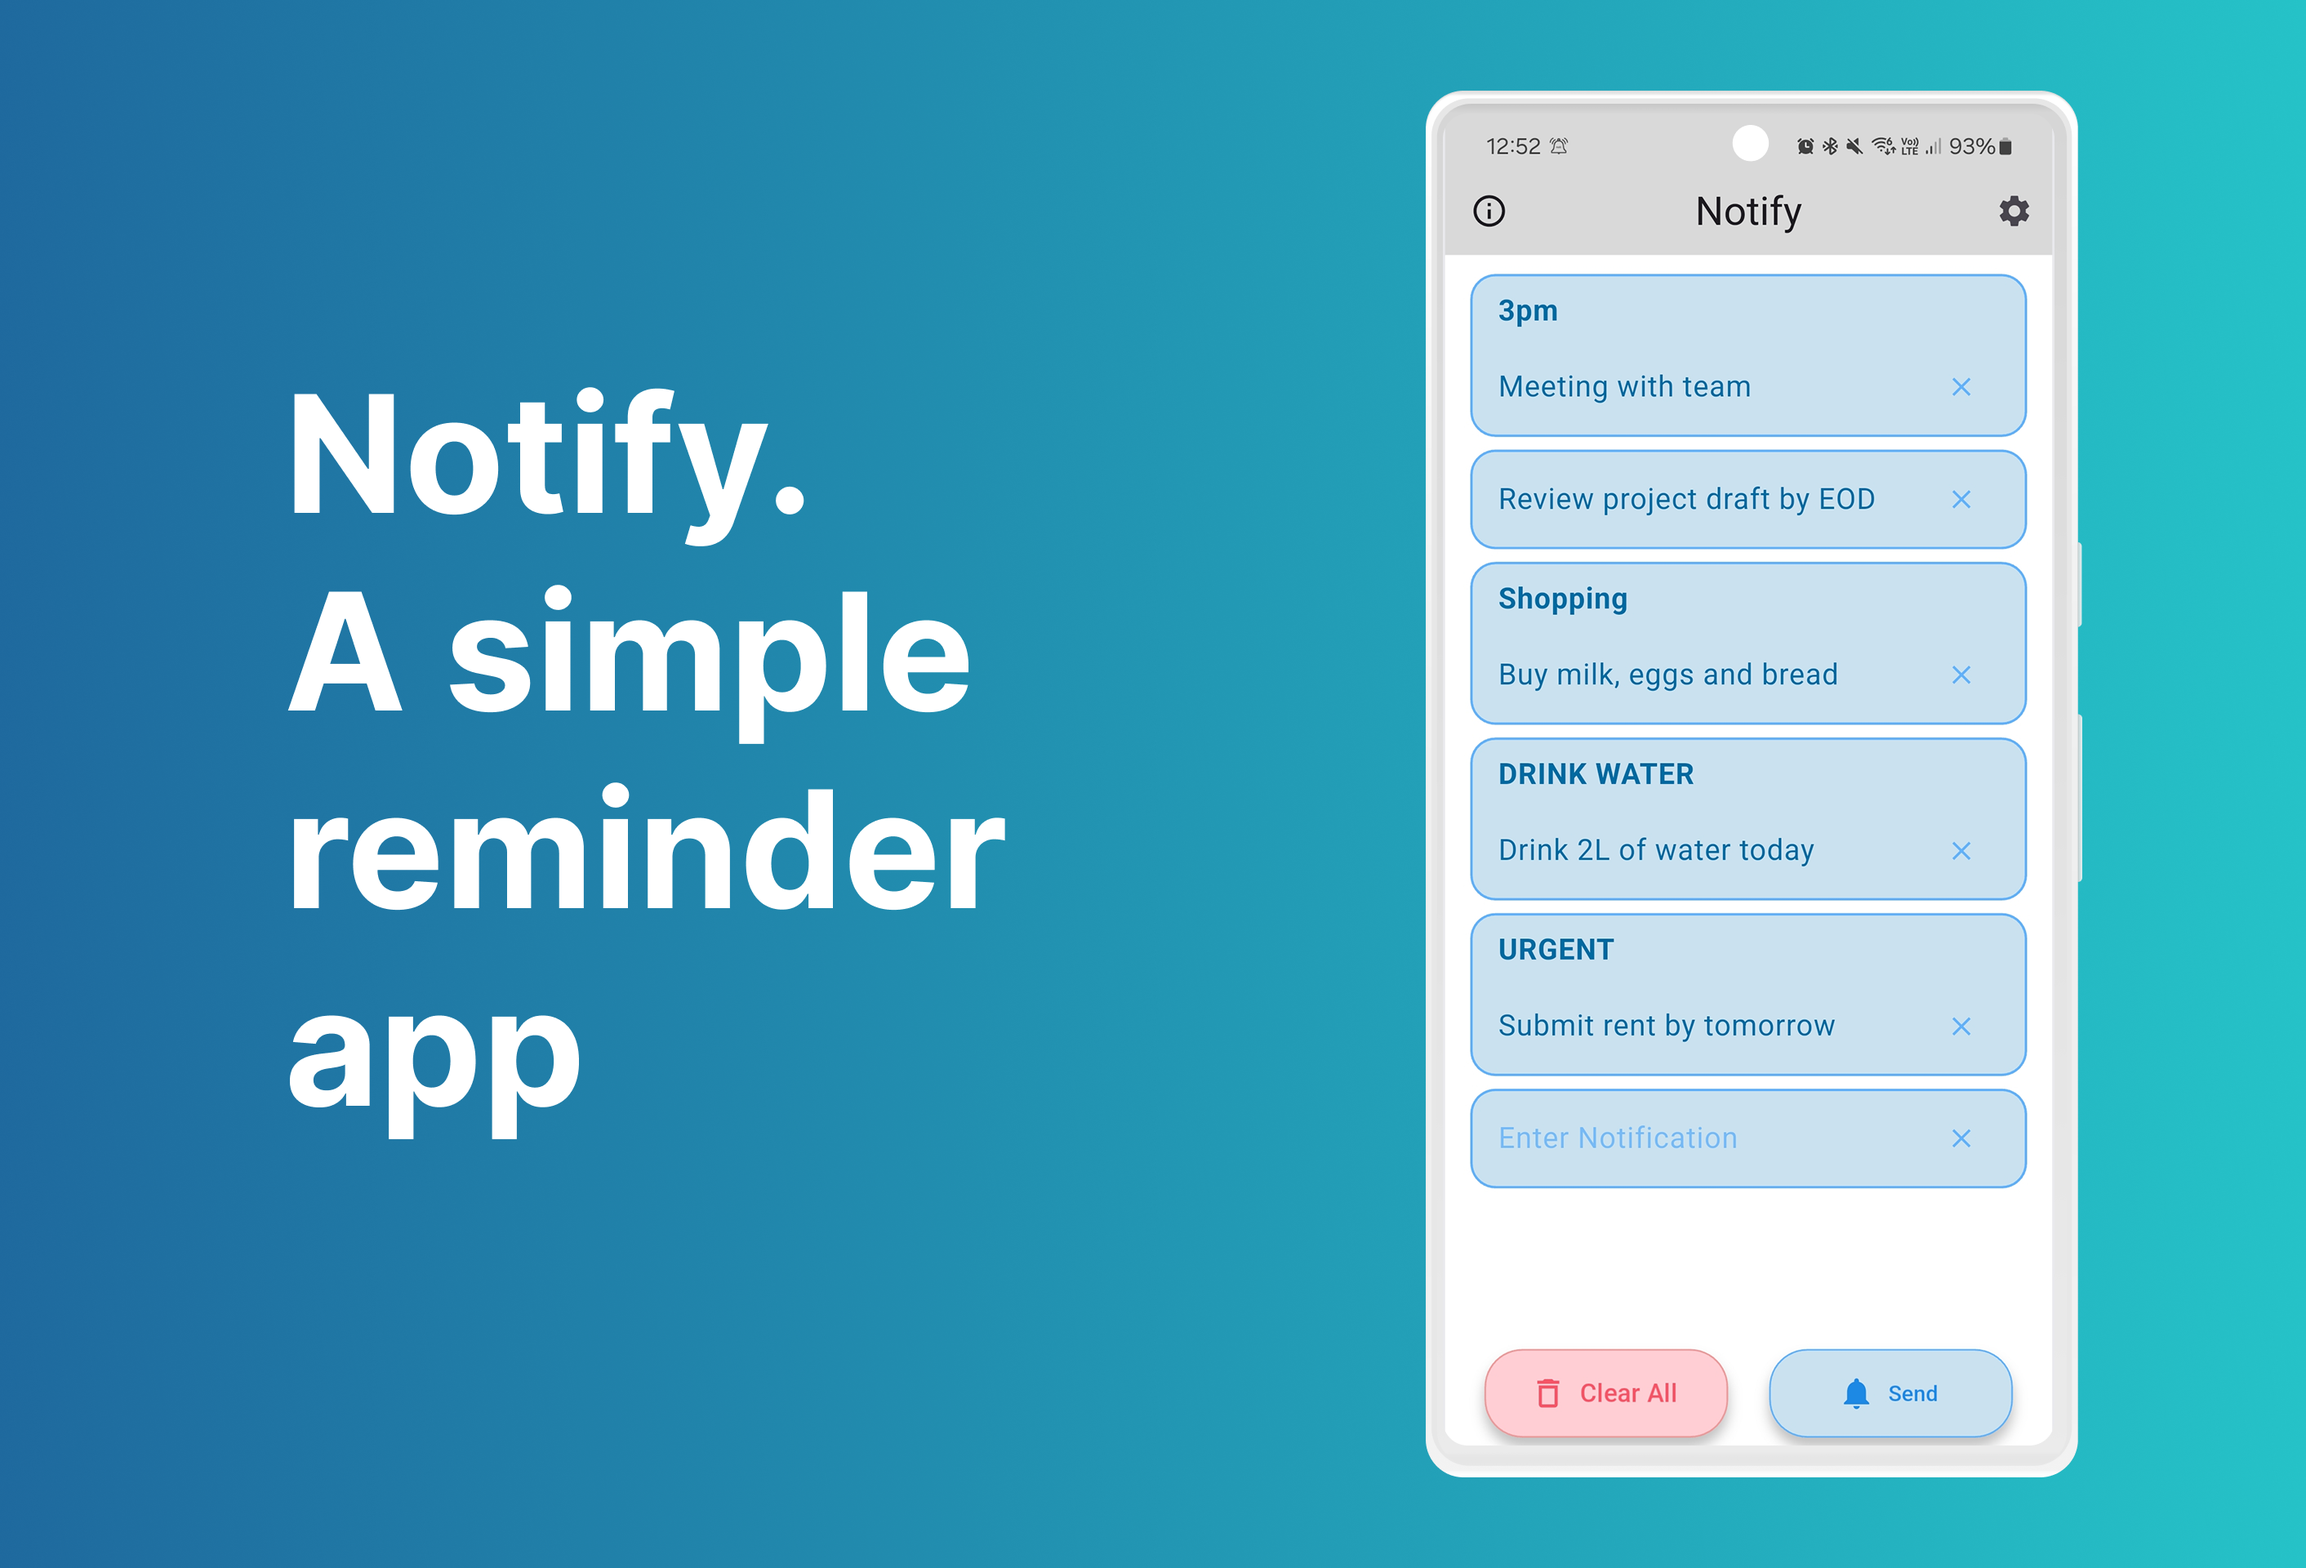
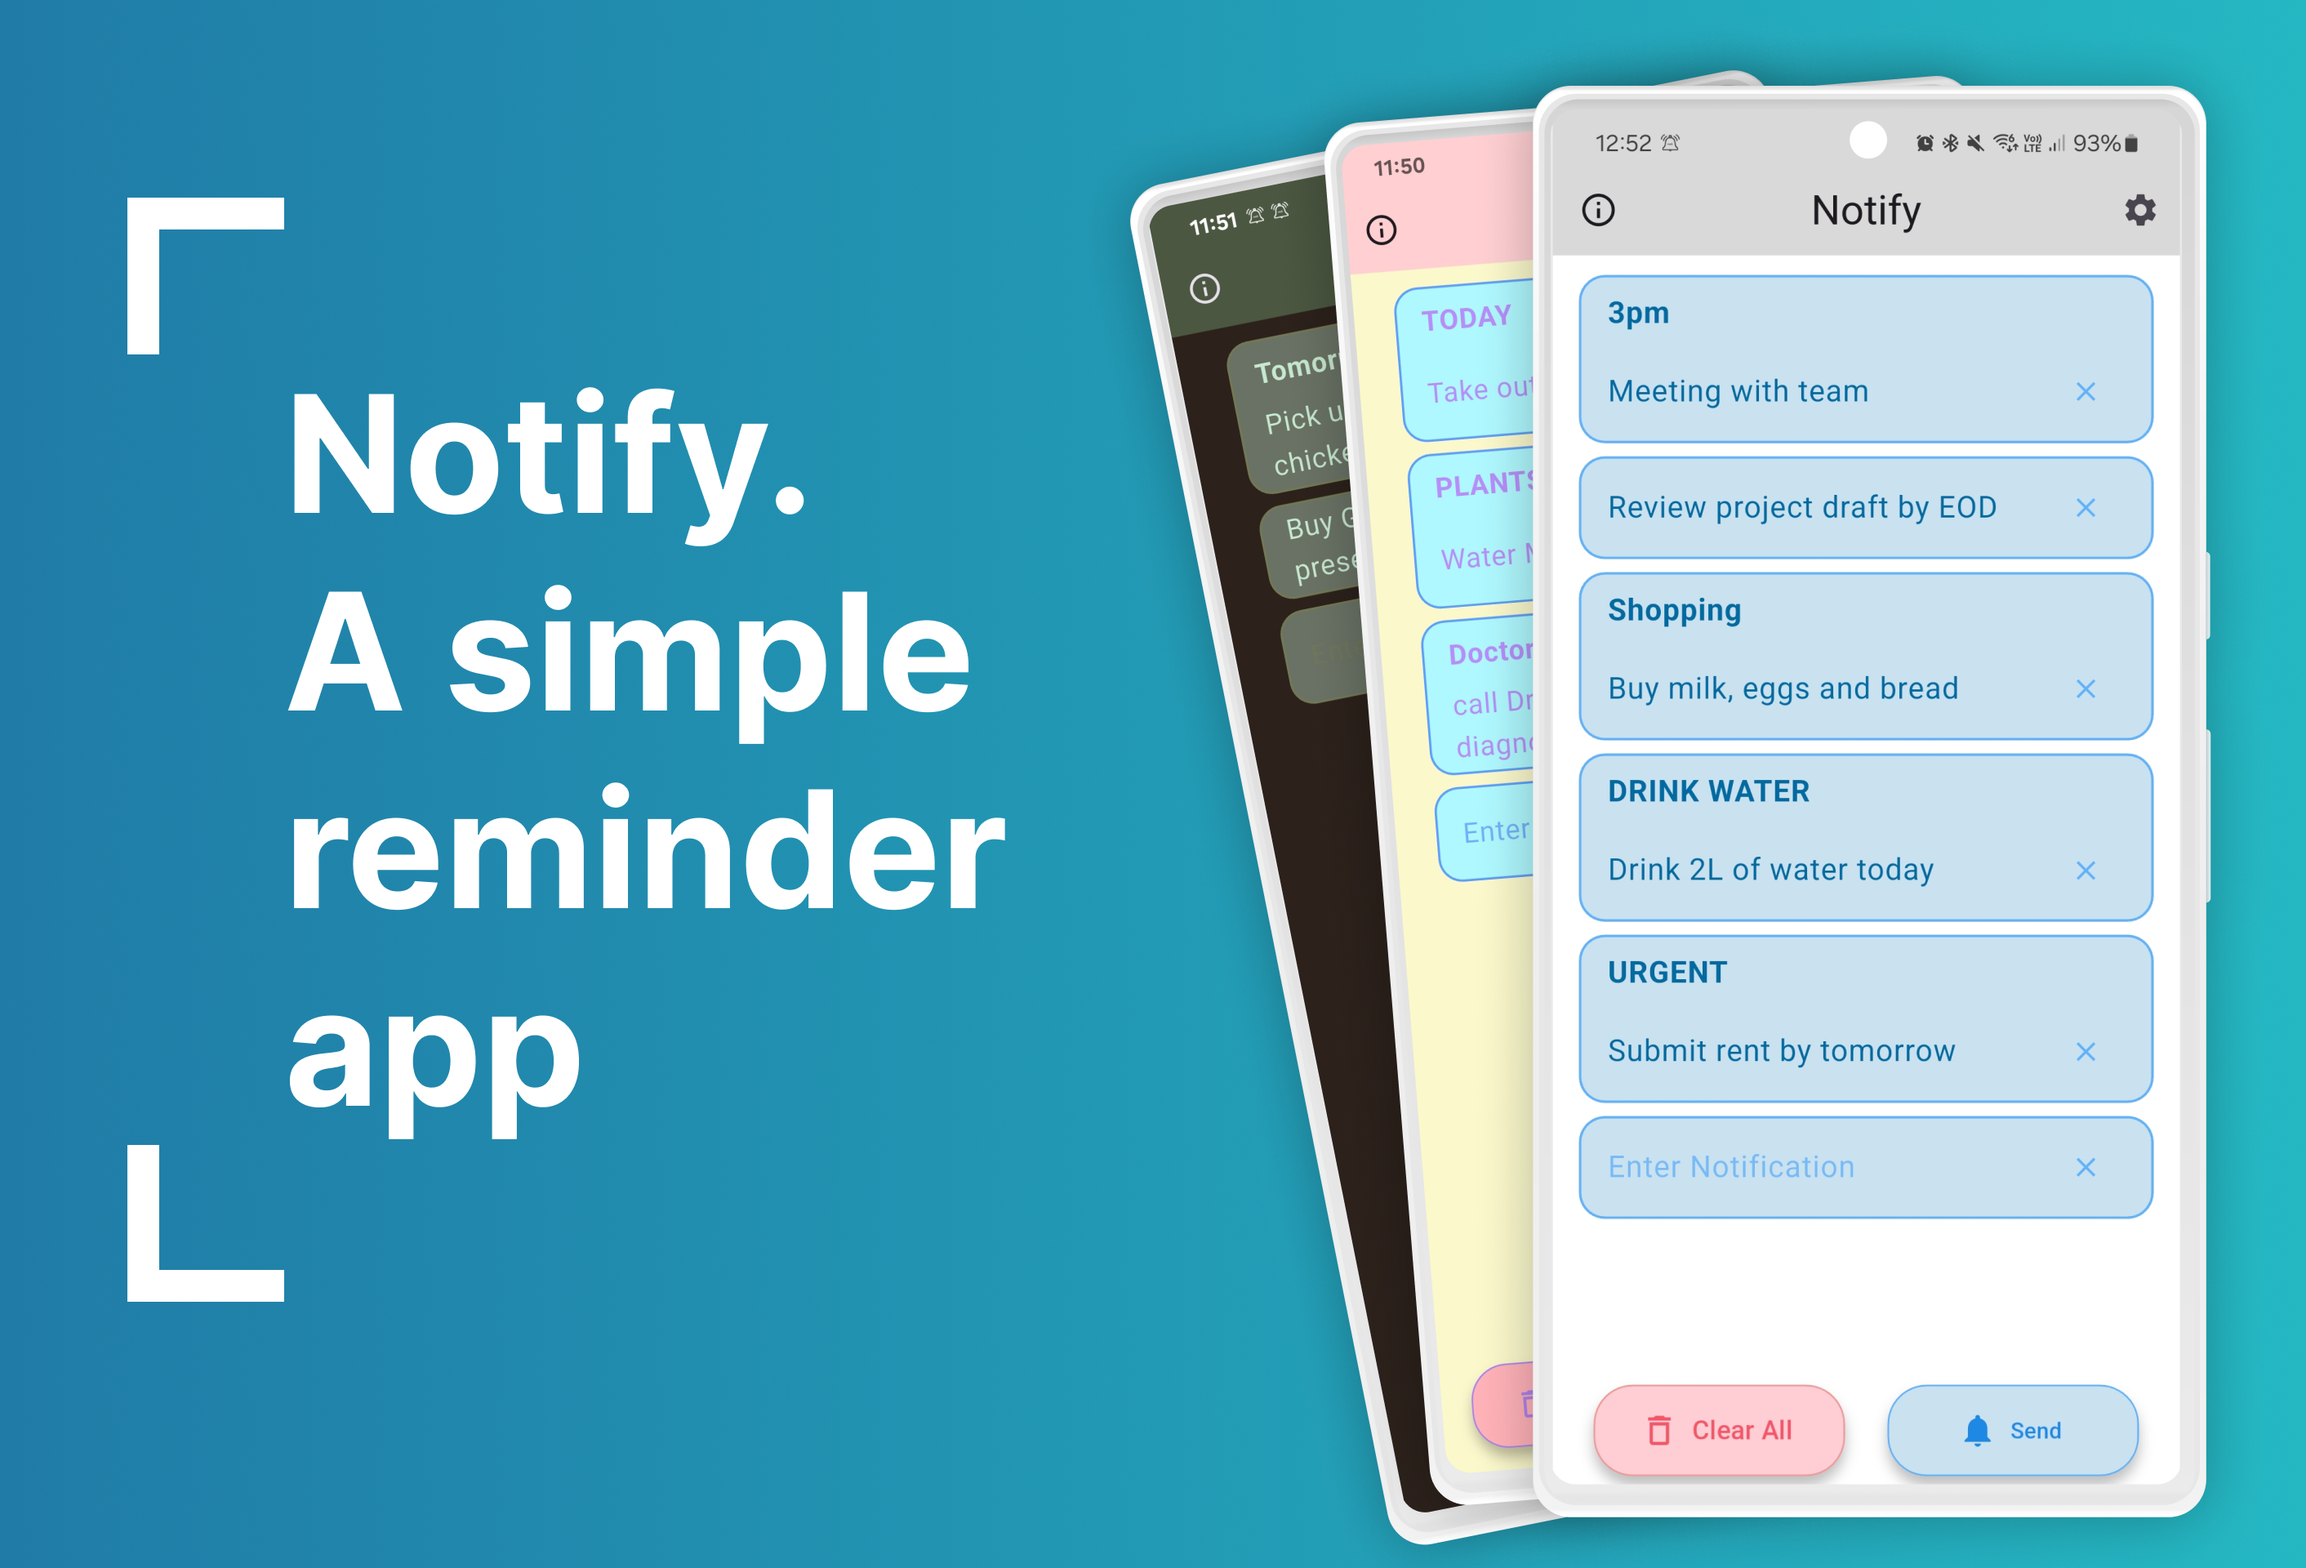
notify project image updated, also overlay now works

Changed region(s): [[0.4674, 0.0312, 0.966, 1.0], [0.0312, 0.7188, 0.1246, 0.8438], [0.0312, 0.125, 0.1246, 0.2188]]

diff --git a/index.html b/index.html
@@ -29,6 +29,8 @@
       observer.observe(card);
     });
   });
+
+
 </script>
 
 <script>
@@ -71,6 +73,40 @@
         });
     }
   });
+</script>
+
+<script>
+    function openNotifyOverlay() {
+    const overlay = document.getElementById('notifyOverlay');
+    overlay.style.display = 'block';
+    document.body.style.overflow = 'hidden'; // Prevent background scrolling
+
+//    // Auto-zoom if needed (remove if you don't want auto-zoom)
+//    const img = overlay.querySelector('.overlay-image');
+//    img.classList.add('zoom');
+
+    // Focus for keyboard accessibility
+    overlay.focus();
+}
+
+function closeNotifyOverlay() {
+    const overlay = document.getElementById('notifyOverlay');
+    overlay.style.display = 'none';
+    document.body.style.overflow = 'auto'; // Re-enable scrolling
+
+    // Reset zoom if applied
+    const img = overlay.querySelector('.overlay-image');
+    img.classList.remove('zoom');
+}
+
+// Add keyboard support
+document.addEventListener('keydown', function(e) {
+    const overlay = document.getElementById('notifyOverlay');
+    if (e.key === 'Escape' && overlay.style.display === 'block') {
+        closeNotifyOverlay();
+    }
+});
+
 </script>
 
 <body>
@@ -119,7 +155,7 @@
         </section>
 
         <section id="notify" class="card">
-            <div class="card-image"></div>
+            <div class="card-image" onclick="openNotifyOverlay()"></div>
             <div class="card-content">
                 <h2>Notify</h2>
                 <p>Notify is the smarter way to stay on top of your tasks. Instead of relying on fleeting pop-ups or buried to-do lists, Notify lets you pin reminders directly to your notification shade so they’re always visible, right where you’ll see them.</p>
@@ -127,6 +163,13 @@
             </div>
 
         </section>
+
+        <div id="notifyOverlay" class="overlay" onclick="closeNotifyOverlay()">
+          <div class="overlay-content" onclick="event.stopPropagation()">
+            <img src="assets/notify-graphic.png" alt="Notify App Detailed Graphic" class="overlay-image">
+            <button class="close-btn" onclick="closeNotifyOverlay()">&times;</button>
+          </div>
+        </div>
 
     </main>
 

diff --git a/css/style.css b/css/style.css
@@ -333,3 +333,51 @@ border: 4px solid white;
     height: 100%;
 }
 
+/* Overlay Styles */
+.overlay {
+    position: fixed;
+    top: 0;
+    left: 0;
+    width: 100%;
+    height: 100%;
+    background-color: rgba(0, 0, 0, 0.9);
+    z-index: 1000;
+    display: none;
+    overflow: auto;
+}
+
+.overlay-content {
+    position: relative;
+    max-width: 90%;
+    max-height: 90%;
+    margin: 2% auto;
+    padding: 20px;
+}
+
+.overlay-image {
+    width: 100%;
+    height: auto;
+    display: block;
+    margin: 0 auto;
+    max-width: 1200px;
+}
+
+.close-btn {
+    position: absolute;
+    top: 20px;
+    right: 20px;
+    font-size: 30px;
+    color: white;
+    background: none;
+    border: none;
+    cursor: pointer;
+    z-index: 1001;
+}
+
+/* For very large images that need scrolling */
+.overlay-image.zoom {
+    width: auto;
+    max-width: none;
+    max-height: none;
+    transform-origin: 0 0;
+}
